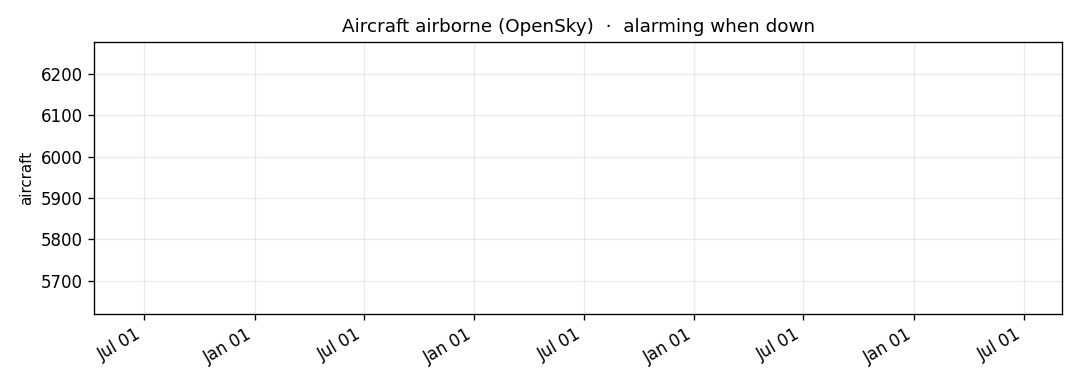
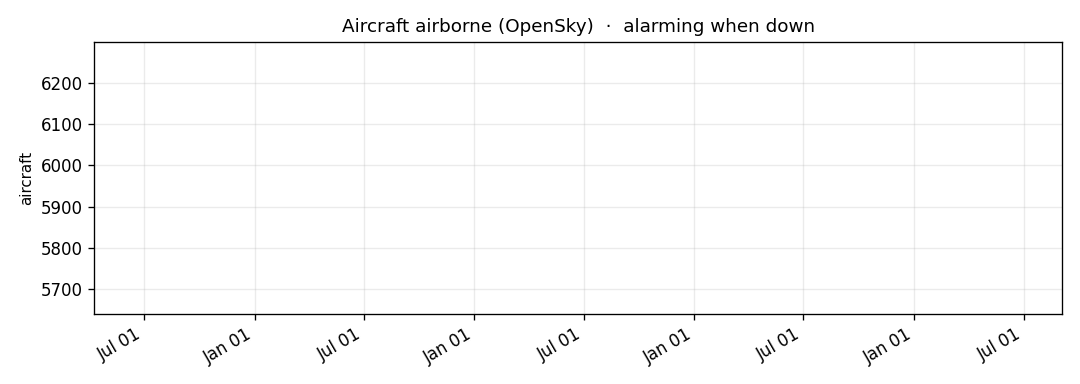
Switch grid frequency to Statnett (keyless)
Statnett's real-time frequency API needs no key or login, unlike Fingrid. It
reads the same Nordic 50 Hz synchronous grid, so the grid line now runs out of
the box; drop FINGRID_API_KEY from the workflow.

diff --git a/fetchers/grid_frequency.py b/fetchers/grid_frequency.py
@@ -1,21 +1,21 @@
-"""Fingrid — infrastructure tension line (grid frequency).
+"""Statnett — infrastructure tension line (grid frequency).
 
 Guarded equilibrium: grid operators defend 50 Hz second by second — one of the
 most fiercely guarded balances humans maintain. The leaking hand: any deviation
 means supply/demand was overwhelmed — a blackout precursor, a fuel shortage, a
 system under shock.
 
-Reading: the day's maximum absolute deviation from 50 Hz, in millihertz. A
-larger deviation is the alarming direction. (Max deviation captures "stress"
-far better than a daily average, which washes the spikes out.)
+Reading: the maximum absolute deviation from 50 Hz in the latest ~60-second
+window, in millihertz. A larger deviation is the alarming direction. (Max
+deviation captures "stress" far better than an average, which washes the spikes
+out.)
 
-Source: Fingrid Open Data (Finland, Nordic synchronous grid), dataset 177
-(real-time frequency). Needs a free api key in env FINGRID_API_KEY (sent as the
-x-api-key header).
+Source: Statnett (Norway TSO) real-time frequency REST API. Statnett sits on the
+Nordic synchronous grid — the same 50 Hz balance Finland's Fingrid measures — but
+its endpoint is fully public: no key, no login, no registration. That keeps this
+line running out of the box. (Fingrid dataset 177 is an equivalent alternative
+if a key is ever preferred.)
 """
-import os
-from datetime import datetime, timedelta, timezone
-
 import requests
 
 LINE = "grid_frequency"
@@ -23,51 +23,31 @@ LABEL = "Grid freq. max |dev| from 50Hz (mHz)"
 UNIT = "mHz"
 ANOMALY_DIRECTION = "up"  # a larger deviation is the alarming move
 
-_DATASET = 177
-_URL = f"https://data.fingrid.fi/api/datasets/{_DATASET}/data"
+_URL = "https://driftsdata.statnett.no/restapi/Frequency/BySecond"
 
 
 def fetch_daily():
     """Return {"raw_value": float | None, "source_note": str}."""
-    key = os.environ.get("FINGRID_API_KEY")
-    if not key:
-        return {"raw_value": None, "source_note": "missing FINGRID_API_KEY"}
-    end = datetime.now(timezone.utc)
-    start = end - timedelta(hours=24)
-    fmt = "%Y-%m-%dT%H:%M:%SZ"
     try:
-        r = requests.get(
-            _URL,
-            timeout=20,
-            headers={"x-api-key": key, "Accept": "application/json"},
-            params={
-                "startTime": start.strftime(fmt),
-                "endTime": end.strftime(fmt),
-                "pageSize": 20000,
-            },
-        )
+        r = requests.get(_URL, timeout=15, headers={"Accept": "application/json"})
     except requests.RequestException as e:
-        return {"raw_value": None, "source_note": f"Fingrid request failed: {type(e).__name__}"}
+        return {"raw_value": None, "source_note": f"Statnett request failed: {type(e).__name__}"}
     if r.status_code != 200:
-        return {"raw_value": None, "source_note": f"Fingrid HTTP {r.status_code}"}
+        return {"raw_value": None, "source_note": f"Statnett HTTP {r.status_code}"}
     try:
-        body = r.json()
+        measurements = r.json().get("Measurements") or []
     except ValueError:
-        return {"raw_value": None, "source_note": "Fingrid returned a non-JSON body"}
+        return {"raw_value": None, "source_note": "Statnett returned a non-JSON body"}
 
-    rows = body.get("data", []) if isinstance(body, dict) else body
     deviations = []
-    for row in rows or []:
-        value = row.get("value") if isinstance(row, dict) else None
-        if value is None:
-            continue
+    for value in measurements:
         try:
             deviations.append(abs(float(value) - 50.0) * 1000.0)  # Hz -> mHz
         except (TypeError, ValueError):
             continue
     if not deviations:
-        return {"raw_value": None, "source_note": "Fingrid dataset 177 returned no points"}
+        return {"raw_value": None, "source_note": "Statnett frequency window was empty"}
     return {
         "raw_value": round(max(deviations), 2),
-        "source_note": f"Fingrid dataset 177 max |dev| over {len(deviations)} points",
+        "source_note": f"Statnett Nordic grid max |dev|, ~60s snapshot, {len(deviations)} points",
     }

diff --git a/README.md b/README.md
@@ -9,7 +9,7 @@ tremor watches a few **tension indicators**: guarded equilibria that something p
 - **Flights airborne** — airspace (OpenSky)
 - **US high-yield credit spread** — financial system (FRED)
 - **Korea BTC premium** — capital controls (Upbit + Coinbase)
-- **Grid frequency** — infrastructure (Fingrid)
+- **Grid frequency** — infrastructure (Statnett, Nordic grid)
 
 Each line is normalized on its own; they are never combined into a single doom score. What matters is **resonance** — how many lines are trembling at once. Several independent instruments screaming together is what "actually more disordered" looks like; one moving alone is just a local event.
 
@@ -24,4 +24,4 @@ pip install -r requirements.txt
 python collect.py && python render.py
 ```
 
-Flights and the Korea premium need no keys. Add free `FRED_API_KEY` and `FINGRID_API_KEY` as repo Secrets to light up the other two lines.
+Three lines need no keys (flights, Korea premium, grid frequency). Add a free `FRED_API_KEY` as a repo Secret to light up the credit-spread line too.